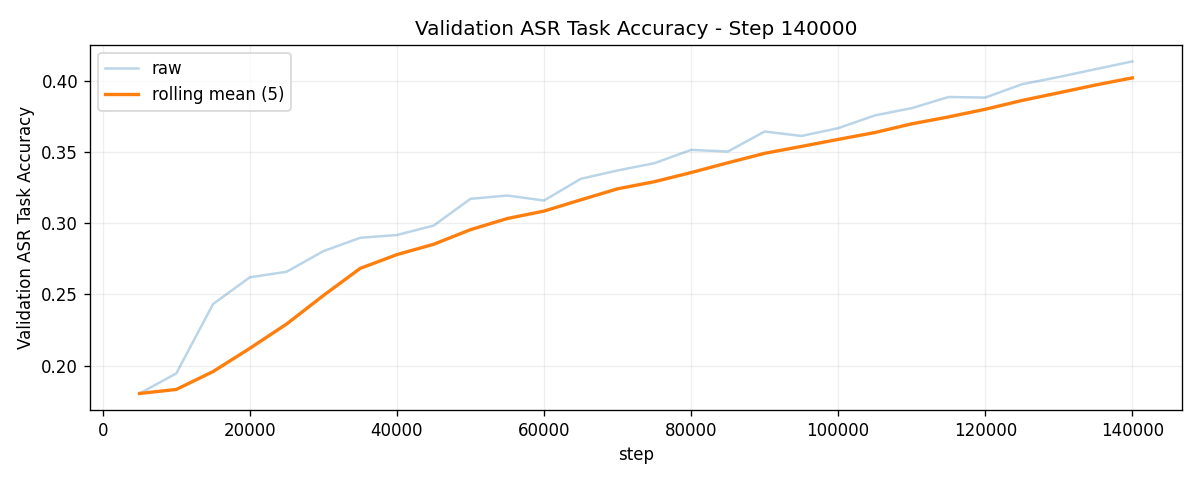
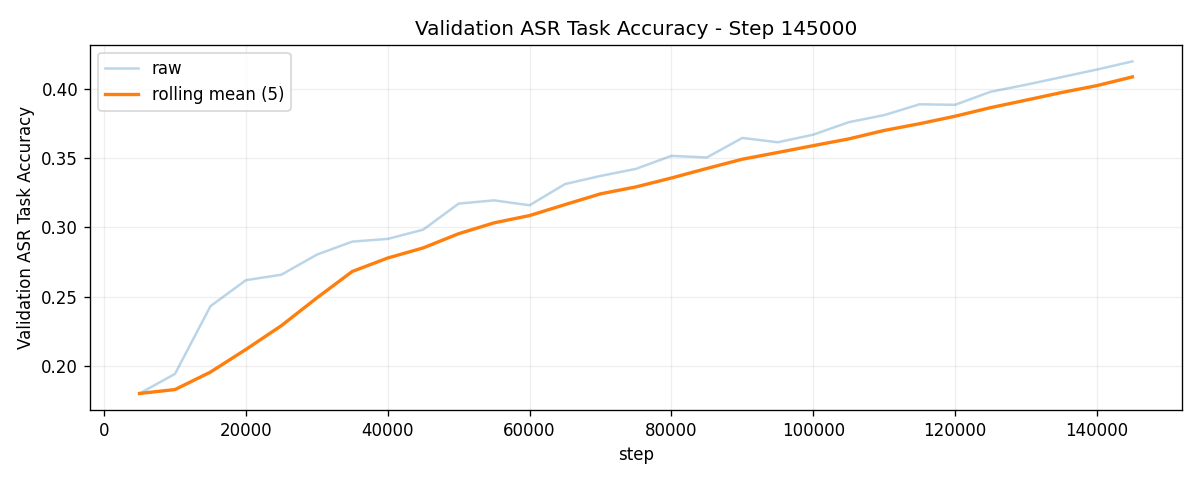
Update README and figures for step 145000

diff --git a/README.md b/README.md
@@ -21,9 +21,7 @@ The current experimental run is a multimodal duplex model trained on text dialog
 
 ## Current Snapshot
 
-Latest audited evaluation before the current restart: step 790,000 from the previous multimodal run; the latest completed recovery checkpoint at audit time was step 780,000.
-
-The detailed failure analysis and restart decision are in [`TRAINING_AUDIT_790K.md`](TRAINING_AUDIT_790K.md).
+The latest audited checkpoint published in this README is step 145,000 for the current multimodal run.
 
 | Item | Value |
 | :--- | :--- |
@@ -272,19 +270,19 @@ The reported CE is a weighted multimodal objective, not a plain text perplexity.
 | :---: | :---: |
 | ![Train Loss](assets/train_loss.png) | ![Validation Loss](assets/val_loss.png) |
 
-Latest completed eval at step 140,000:
+Latest completed eval at step 145,000:
 
 | Metric | Value |
 | :--- | ---: |
-| Train weighted CE | 3.42 |
+| Train weighted CE | 3.45 |
 | Validation weighted CE | 3.83 |
-| Best validation weighted CE so far | 3.83 at step 140,000 |
-| Decision accuracy | 94.25% |
-| Listen accuracy | 94.51% |
-| User-end accuracy | 75.13% |
-| Model-end accuracy | 75.48% |
-| Text token accuracy | 34.55% |
-| Audio token accuracy | 36.56% |
+| Best validation weighted CE so far | 3.83 at step 145,000 |
+| Decision accuracy | 90.11% |
+| Listen accuracy | 90.27% |
+| User-end accuracy | 78.24% |
+| Model-end accuracy | 71.97% |
+| Text token accuracy | 34.48% |
+| Audio token accuracy | 37.45% |
 | Audio codebook exact accuracy | 0.04% |
 
 ### Protocol and Modality
@@ -307,7 +305,7 @@ Latest completed eval at step 140,000:
 
 ## Output Examples
 
-These examples are from the step 140,000 runtime loop. They show protocol control behavior rather than finished assistant quality.
+These examples are from the step 145,000 runtime loop. They show protocol control behavior rather than finished assistant quality.
 
 ### Identity Prompt
 
